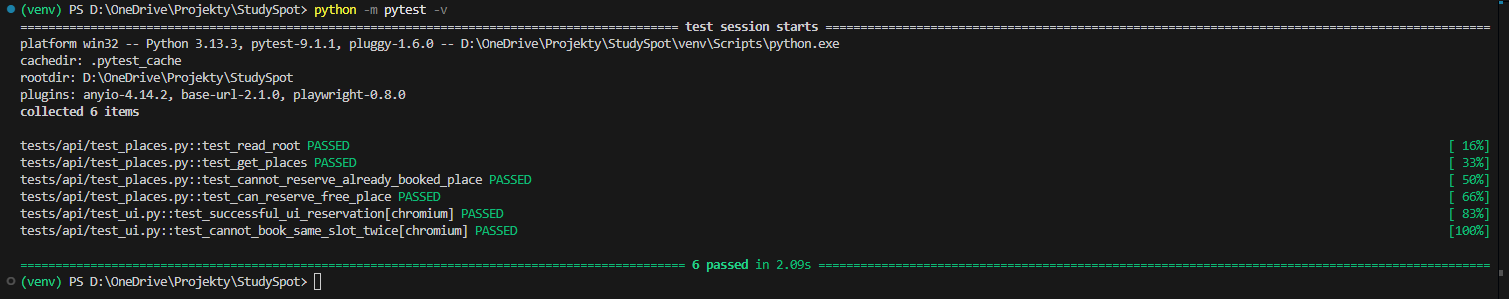
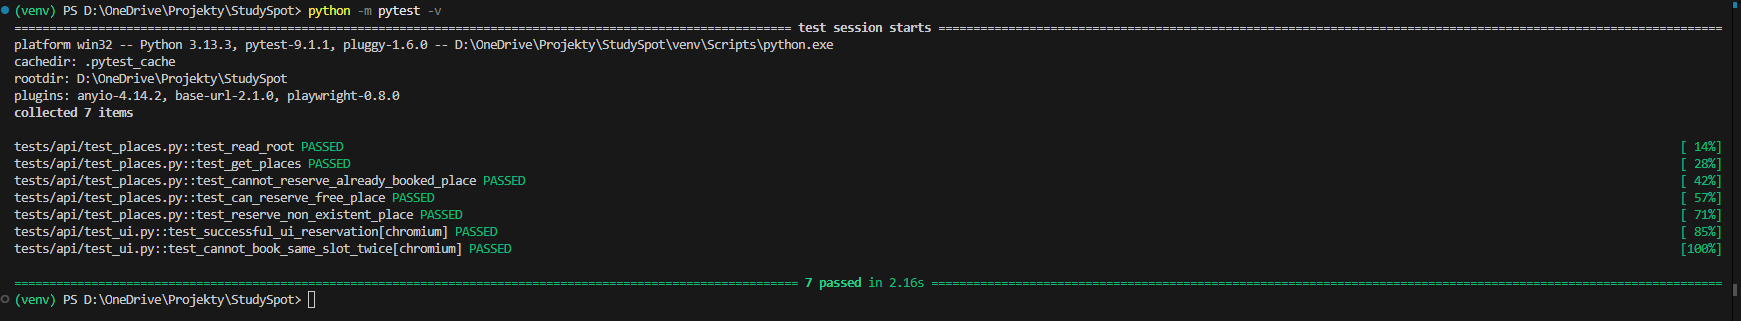
add 404 Not Found API test for non-existent places

diff --git a/tests/api/test_places.py b/tests/api/test_places.py
@@ -44,3 +44,13 @@ def test_can_reserve_free_place():
 
     assert response.status_code == 200
     assert "successfully reserved" in response.json()["message"]
+
+def test_reserve_non_existent_place():
+    payload = {
+        "date": "2026-07-20",
+        "time_slot": "10:00"
+    }
+
+    response = client.post("/reserve/5", json=payload)
+
+    assert response.status_code == 404

diff --git a/app/main.py b/app/main.py
@@ -2,7 +2,7 @@ from fastapi import FastAPI, HTTPException
 from fastapi.responses import FileResponse
 from pydantic import BaseModel
 
-app = FastAPI(title="StudySpot API", description="Libary seat reservation system")
+app = FastAPI(title="StudySpot API", description="Library seat reservation system")
 
 class ReservationRequest(BaseModel):
     date: str
@@ -12,7 +12,7 @@ places_db = [
     {"id": 1, "name": "Desk to group work A", "type": "desk", "booked_slots": []},
     {"id": 2, "name": "Desk to group work B", "type": "desk", "booked_slots": ["2026-07-14 10:00"]},
     {"id": 3, "name": "Soundproof cabin A", "type": "cabin", "booked_slots": []},
-    {"id": 4, "name": "Soundproof cabin A", "type": "cabin", "booked_slots": ["2026-07-15 14:00"]},
+    {"id": 4, "name": "Soundproof cabin B", "type": "cabin", "booked_slots": ["2026-07-15 14:00"]},
 ]
 
 @app.get("/", response_class=FileResponse)